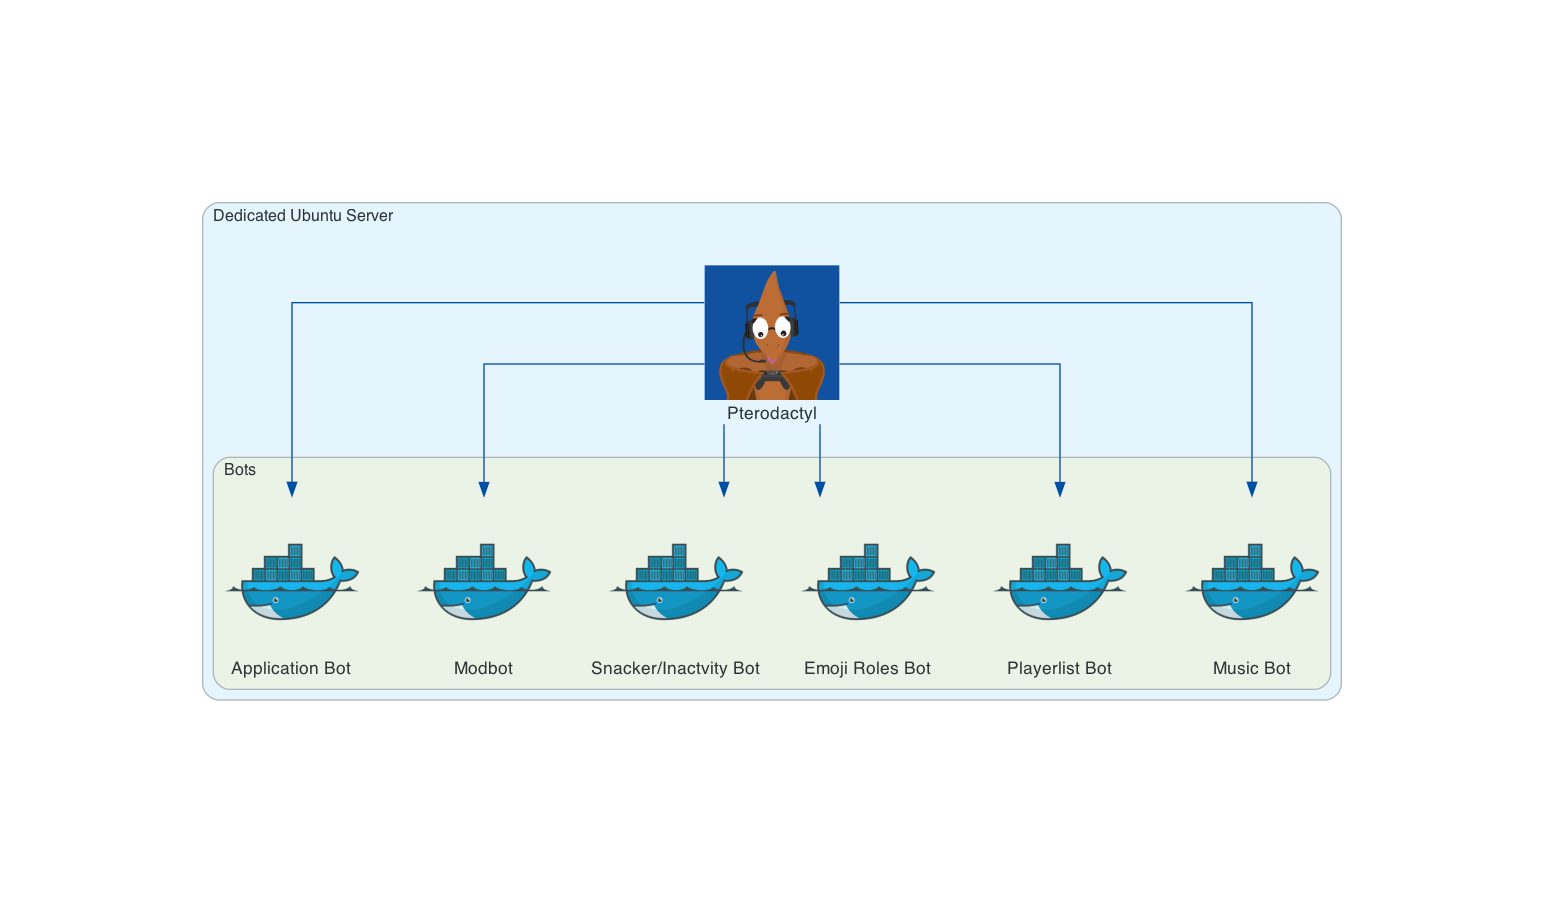
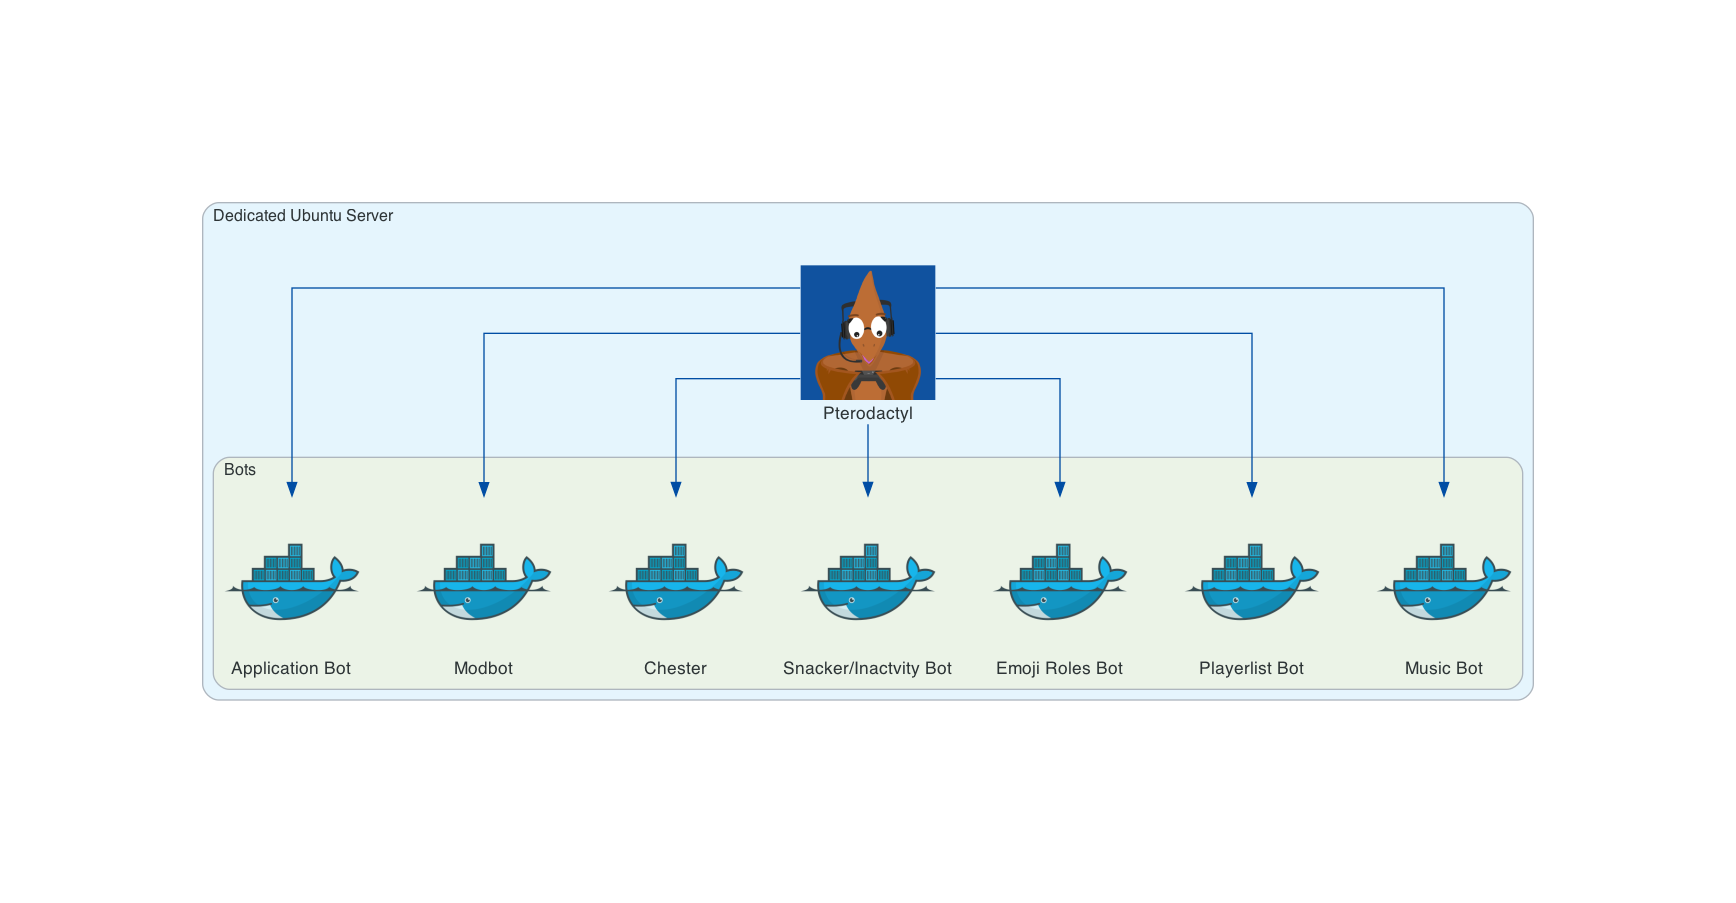
Add Chester to bots

diff --git a/bots/bots.py b/bots/bots.py
@@ -22,7 +22,7 @@ with Diagram(filename="bots", show=True, direction="TB"):
             playerlistbot = Docker("Playerlist Bot")    
             snackerinactivitybot = Docker("Snacker/Inactvity Bot")
             musicbot = Docker("Music Bot")
+            chester = Docker("Chester")
 
-        bots = [musicbot, playerlistbot, emojirolesbot, snackerinactivitybot, applicationbot]
+        bots = [musicbot, playerlistbot, emojirolesbot, snackerinactivitybot, chester, modbot, applicationbot]
         pterodactyl >> Edge(color="#004da4") >> bots
-        pterodactyl >> Edge(color="#004da4") << modbot
